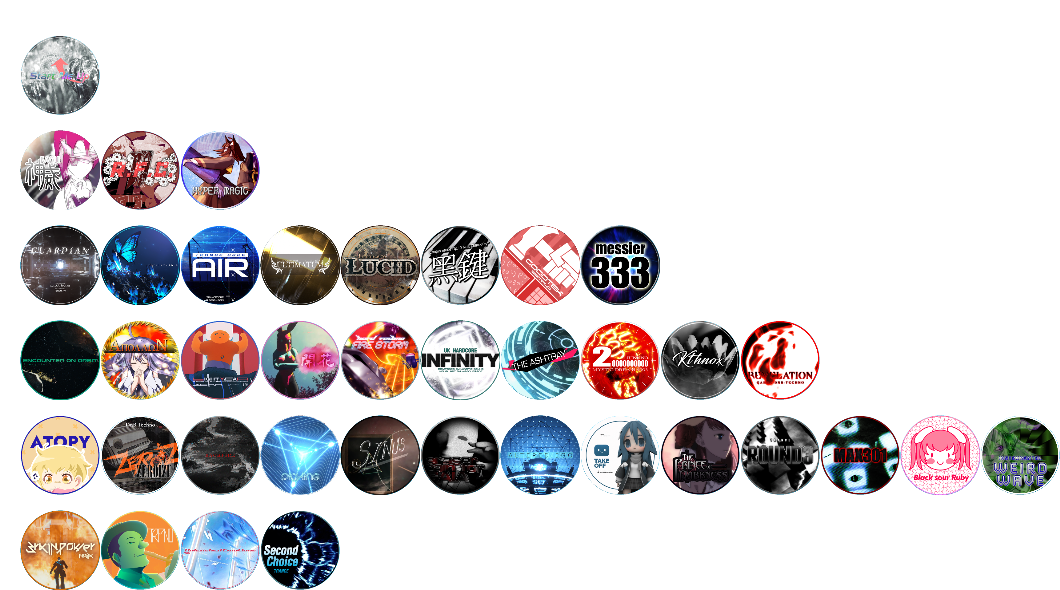
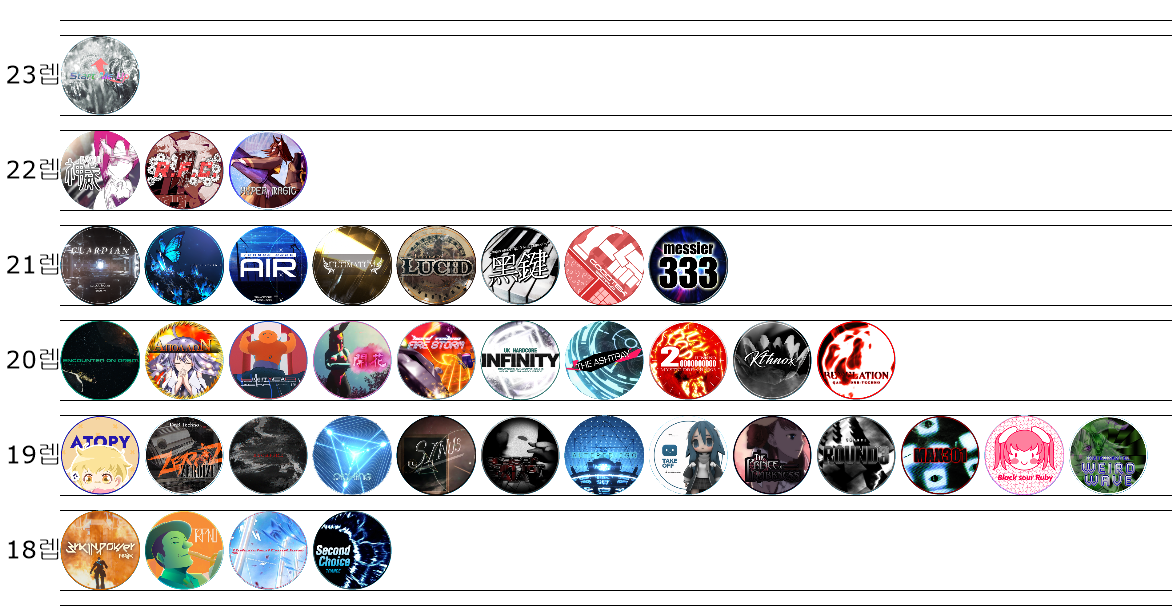
c

diff --git a/ECMBase/ECMDrawer.cs b/ECMBase/ECMDrawer.cs
@@ -1,32 +1,123 @@
 using System.Drawing;
+using System.Drawing.Drawing2D;
+using System.Drawing.Text;
 
 namespace ECMBase
 {
 
-
-    public class ECMDivider : ECMDrawer.IImageDrawable
+    public record TextBase
     {
-        public int topgap=20;
-        public int leftgap=20;
-        public int boxheight=80;
-        public int boxgap=15;
+        readonly Font font;
+        readonly public int size;
+        readonly public Color color;
 
-        public int height { get; set; }
+        public TextBase(Font font, int size, Color color)
+        {
+            this.font = font;
+            this.size = size;
+            this.color = color;
+        }
+
+        public StackableImage Draw(ECMDrawer drawer, string text, int xoffset, int yoffset,int height)
+        {
+            Image image = TextDrawer.Draw(text, font, color, size);
+            return new StackableImage(image, new Rectangle(xoffset,yoffset,image.Width,image.Height), height);
+        }
+        
+    }
+
+    public class ECMText : ECMDrawer.IImageDrawable
+    {
+        public TextBase value;
+        public string text;
+        public int xoffset;
+        public int yoffset;
+
+        public int height;
+        public StackableImage SelfDraw(ECMDrawer drawer) => value.Draw(drawer,text,xoffset,yoffset,height);
+    }
+
+    public class ECMImage : ECMDrawer.IImageDrawable
+    {
+        public Image image;
+        public Rectangle rect;
+        public int height;
+
+        public void DefaultSize()
+        {
+            rect.Width = image.Width;
+            rect.Height = image.Height;
+        }
 
         public StackableImage SelfDraw(ECMDrawer drawer)
         {
-            using Pen pineapple = new Pen(Color.Black, 1);
+            throw new NotImplementedException();
+        }
+    }
+
+    public class ECMDivider : ECMDrawer.IImageDrawable
+    {
+        public int TOPGAP=20;
+        public int LEFTGAP=60;
+        public int RIGHTGAP = 20;
+        public int BOTTOMGAP = 20;
+
+        public int BOXSIZE = 80;
+        public int BOXHEIGHTGAP = 15;
+        public int BOXWIDTHGAP = 4;
+
+        //아직안만듬
+        public int MAXBOXCOUNT = 12;
+
+        //아직안만듬
+        public TextBase COVEROVERLAY1;
+
+        //아직안만듬
+        public TextBase COVEROVERLAY2;
+
+        public bool SHOWLEFTLEVEL = true;
+        //만드는중
+        public TextBase LEFTLEVEL = new TextBase(new Font("Verdana",18),100,Color.Black);
+        public int LEFTLEVELLEFTGAP = 2;
+        public int LEFTLEVELTOPGAP = 40;
+        public string LEFTLEVELSUFFIX = "렙";
+
+        public bool SHOWLINE = true;
+        public int LINESIZE = 1;
+        public Color LINECOLOR = Color.Black;
+
+
+        public int height = 1;
+
+        public StackableImage SelfDraw(ECMDrawer drawer)
+        {
             Bitmap bitmap = drawer.GetEmptyBitmap();
-            using(Graphics canvas = Graphics.FromImage(bitmap))
+            using Graphics canvas = Graphics.FromImage(bitmap);
+            if (SHOWLINE)
             {
+                using Pen pineapple = new Pen(LINECOLOR, LINESIZE);
+                
                 bool turn = true;
 
-                for (int i = topgap; i < drawer.MAX_HEIGHT; i += turn ? boxheight : boxgap)
+                for (int i = TOPGAP; i < drawer.MAX_HEIGHT; i += turn ? BOXSIZE : BOXHEIGHTGAP)
                 {
-                    canvas.DrawLine(pineapple, leftgap, i, drawer.MAX_WIDTH, i);
+                    canvas.DrawLine(pineapple, LEFTGAP, i, drawer.MAX_WIDTH, i);
                     turn = !turn;
                 }
             }
+
+            if(SHOWLEFTLEVEL)
+            {
+                for (int i = 0; i < drawer.BOX_YCOUNT; i ++)
+                {
+                    int y = TOPGAP + (i * (BOXSIZE + BOXHEIGHTGAP)) + LEFTLEVELTOPGAP;
+
+                    var sm = LEFTLEVEL.Draw(drawer, drawer.LEFTLEVELS[i].ToString()+LEFTLEVELSUFFIX, LEFTLEVELLEFTGAP, y, 2);
+
+                    canvas.DrawImage(sm.image, new Point(sm.rect.X, sm.rect.Y));
+                }
+            }
+
             return new StackableImage(bitmap,new Rectangle(0,0,drawer.MAX_WIDTH,drawer.MAX_HEIGHT), 0);
         }
     }
@@ -56,14 +147,20 @@ namespace ECMBase
     {
         public int TOPGAP;
         public int LEFTGAP;
-        public int BOXHEIGHT;
-        public int BOXGAP;
+        public int RIGHTGAP;
+        public int BOTTOMGAP;
+
+        public int BOXSIZE;
+        public int BOXHEIGHTGAP;
+        public int BOXWIDTHGAP;
 
         public int BOX_YCOUNT;
         public int BOX_XCOUNT;
 
         public int MAX_HEIGHT;
         public int MAX_WIDTH;
+
+        public double[] LEFTLEVELS;
 
 
         public interface IImageDrawable
@@ -74,43 +171,56 @@ namespace ECMBase
 
         public Image Draw(ECMProject project)
         {
-            TOPGAP = project.option.divider.topgap;
-            LEFTGAP = project.option.divider.leftgap;
-            BOXHEIGHT = project.option.divider.boxheight;
-            BOXGAP = project.option.divider.boxgap;
+            TOPGAP = project.option.divider.TOPGAP;
+            LEFTGAP = project.option.divider.LEFTGAP;
+            RIGHTGAP = project.option.divider.RIGHTGAP;
+            BOTTOMGAP = project.option.divider.BOTTOMGAP;
+
+            BOXSIZE = project.option.divider.BOXSIZE;
+            BOXHEIGHTGAP = project.option.divider.BOXHEIGHTGAP;
+            BOXWIDTHGAP = project.option.divider.BOXWIDTHGAP; ;
 
             BOX_YCOUNT = project.LevelList.Count;
             BOX_XCOUNT = project.LevelList.MaxBy((val)=>val.Value.Count).Value.Count;
 
-            MAX_HEIGHT = TOPGAP + (BOX_YCOUNT * (BOXHEIGHT + BOXGAP));
-            MAX_WIDTH = LEFTGAP + (BOX_XCOUNT*BOXHEIGHT);
+            MAX_HEIGHT = TOPGAP + (BOX_YCOUNT * (BOXSIZE + BOXHEIGHTGAP)) + BOTTOMGAP;
+            MAX_WIDTH = LEFTGAP + (BOX_XCOUNT* (BOXSIZE + BOXWIDTHGAP)) + RIGHTGAP;
+
+            LEFTLEVELS = project.LevelList.Keys.ToArray();
 
 
 
-
-
+            
             Image output = GetEmptyBitmap();
             List<StackableImage> drawStack = new List<StackableImage>();
-            for(int i=0;i< project.LevelList.Values.Count; i++)
+
+
+            //곡 디스크이미지 스택
+            for (int i=0;i< project.LevelList.Values.Count; i++)
             {
                 var vv = project.LevelList.Values.ElementAt(i);
                 for (int j = 0; j < vv.Count; j++)
                 {
-                    int x2 = LEFTGAP + (j * BOXHEIGHT);
-                    int y2 = TOPGAP + BOXGAP + (i * (BOXHEIGHT + BOXGAP));
+                    int x2 = LEFTGAP + (j * (BOXSIZE + BOXWIDTHGAP));
+                    int y2 = TOPGAP + BOXHEIGHTGAP + (i * (BOXSIZE + BOXHEIGHTGAP));
                     ECMLevel? v = vv[j];
                     var w = v.SelfDraw(this);
-                    w.rect = new Rectangle(x2,y2,BOXHEIGHT,BOXHEIGHT);
+                    w.rect = new Rectangle(x2,y2,BOXSIZE,BOXSIZE);
                     drawStack.Add(w);
                 }
             }
 
 
+            //divider 스택
+            drawStack.Add(project.option.divider.SelfDraw(this));
 
 
 
 
+
+            //drawStack 전부 쌓고나서 그리기 시작
             drawStack.Sort((left, right) => left.height < right.height ? -1 : 1);
+            drawStack.Reverse();
             using (Graphics canvas = Graphics.FromImage(output))
             {
                 foreach (var tuple in drawStack)
@@ -147,7 +257,7 @@ namespace ECMBase
     {
         public StackableImage SelfDraw(ECMDrawer drawer)
         {
-            return new StackableImage(this.image, new Rectangle(0,0,drawer.BOXHEIGHT,drawer.BOXHEIGHT),0);
+            return new StackableImage(this.image, new Rectangle(0,0,drawer.BOXSIZE,drawer.BOXSIZE),0);
         }
     }
 

diff --git a/ECMHelper/Form1.cs b/ECMHelper/Form1.cs
@@ -38,10 +38,10 @@ namespace ECMHelper
 
         void RefreshButtons()
         {
-            DataText1B.Text = currentProject.option.divider.topgap.ToString();
-            DataText2B.Text = currentProject.option.divider.leftgap.ToString();
-            DataText3B.Text = currentProject.option.divider.boxheight.ToString();
-            DataText4B.Text = currentProject.option.divider.boxgap.ToString();
+            DataText1B.Text = currentProject.option.divider.TOPGAP.ToString();
+            DataText2B.Text = currentProject.option.divider.LEFTGAP.ToString();
+            DataText3B.Text = currentProject.option.divider.BOXSIZE.ToString();
+            DataText4B.Text = currentProject.option.divider.BOXHEIGHTGAP.ToString();
         }
 
 
@@ -58,7 +58,7 @@ namespace ECMHelper
             if (int.TryParse(str,out int val))
             {
 
-                currentProject.option.divider.topgap = val;
+                currentProject.option.divider.TOPGAP = val;
             }
         }
 
@@ -68,7 +68,7 @@ namespace ECMHelper
             string str = (sender as TextBox).Text;
             if (int.TryParse(str, out int val))
             {
-                currentProject.option.divider.leftgap = val;
+                currentProject.option.divider.LEFTGAP = val;
             }
         }
 
@@ -79,7 +79,7 @@ namespace ECMHelper
             string str = (sender as TextBox).Text;
             if (int.TryParse(str, out int val))
             {
-                currentProject.option.divider.boxheight = val;
+                currentProject.option.divider.BOXSIZE = val;
             }
         }
 
@@ -90,7 +90,7 @@ namespace ECMHelper
             string str = (sender as TextBox).Text;
             if (int.TryParse(str, out int val))
             {
-                currentProject.option.divider.boxgap = val;
+                currentProject.option.divider.BOXHEIGHTGAP = val;
             }
         }
 

diff --git a/ECMBase/DrawText.cs b/ECMBase/DrawText.cs
@@ -1,0 +1,47 @@
+using System;
+using System.Collections.Generic;
+using System.Drawing;
+using System.Drawing.Drawing2D;
+using System.Drawing.Imaging;
+using System.Drawing.Text;
+using System.Linq;
+using System.Text;
+using System.Threading.Tasks;
+
+namespace ECMBase
+{
+    public static class TextDrawer
+    {
+        public static Image Draw(string text, Font font, Color textColor, int maxWidth)
+        {
+            Image img = new Bitmap(1, 1);
+            Graphics drawing = Graphics.FromImage(img);
+            SizeF textSize = drawing.MeasureString(text, font, maxWidth);
+
+            StringFormat sf = new StringFormat();
+            sf.Trimming = StringTrimming.Word;
+            img.Dispose();
+            drawing.Dispose();
+
+            img = new Bitmap((int)textSize.Width, (int)textSize.Height);
+
+            drawing = Graphics.FromImage(img);
+            drawing.CompositingQuality = CompositingQuality.HighQuality;
+            drawing.InterpolationMode = InterpolationMode.HighQualityBilinear;
+            drawing.PixelOffsetMode = PixelOffsetMode.HighQuality;
+            drawing.SmoothingMode = SmoothingMode.HighQuality;
+            drawing.TextRenderingHint = TextRenderingHint.AntiAliasGridFit;
+            drawing.Clear(Color.Transparent);
+
+            Brush textBrush = new SolidBrush(textColor);
+
+            drawing.DrawString(text, font, textBrush, new RectangleF(0, 0, textSize.Width, textSize.Height), sf);
+
+            drawing.Save();
+
+            textBrush.Dispose();
+            drawing.Dispose();
+            return img;
+        }
+    }
+}

diff --git a/ECMBase/ECMLoader.cs b/ECMBase/ECMLoader.cs
@@ -25,7 +25,7 @@ namespace ECMBase
             project.NameDic = preProject.script.NameDic;
 
             {
-                List<(double, ECMLevel)> pll = new();
+                List<(double, ECMLevel)> pll = new List<(double, ECMLevel)>();
 
                 foreach (var (lv, originlv, name) in preProject.script.LEVELList)
                 {
@@ -51,7 +51,7 @@ namespace ECMBase
                         throw new NameNotFoundException(name);
                     }
 
-                    pll.Add((lv, level));
+                    pll.Add((lv,level));
                 }
 
 
